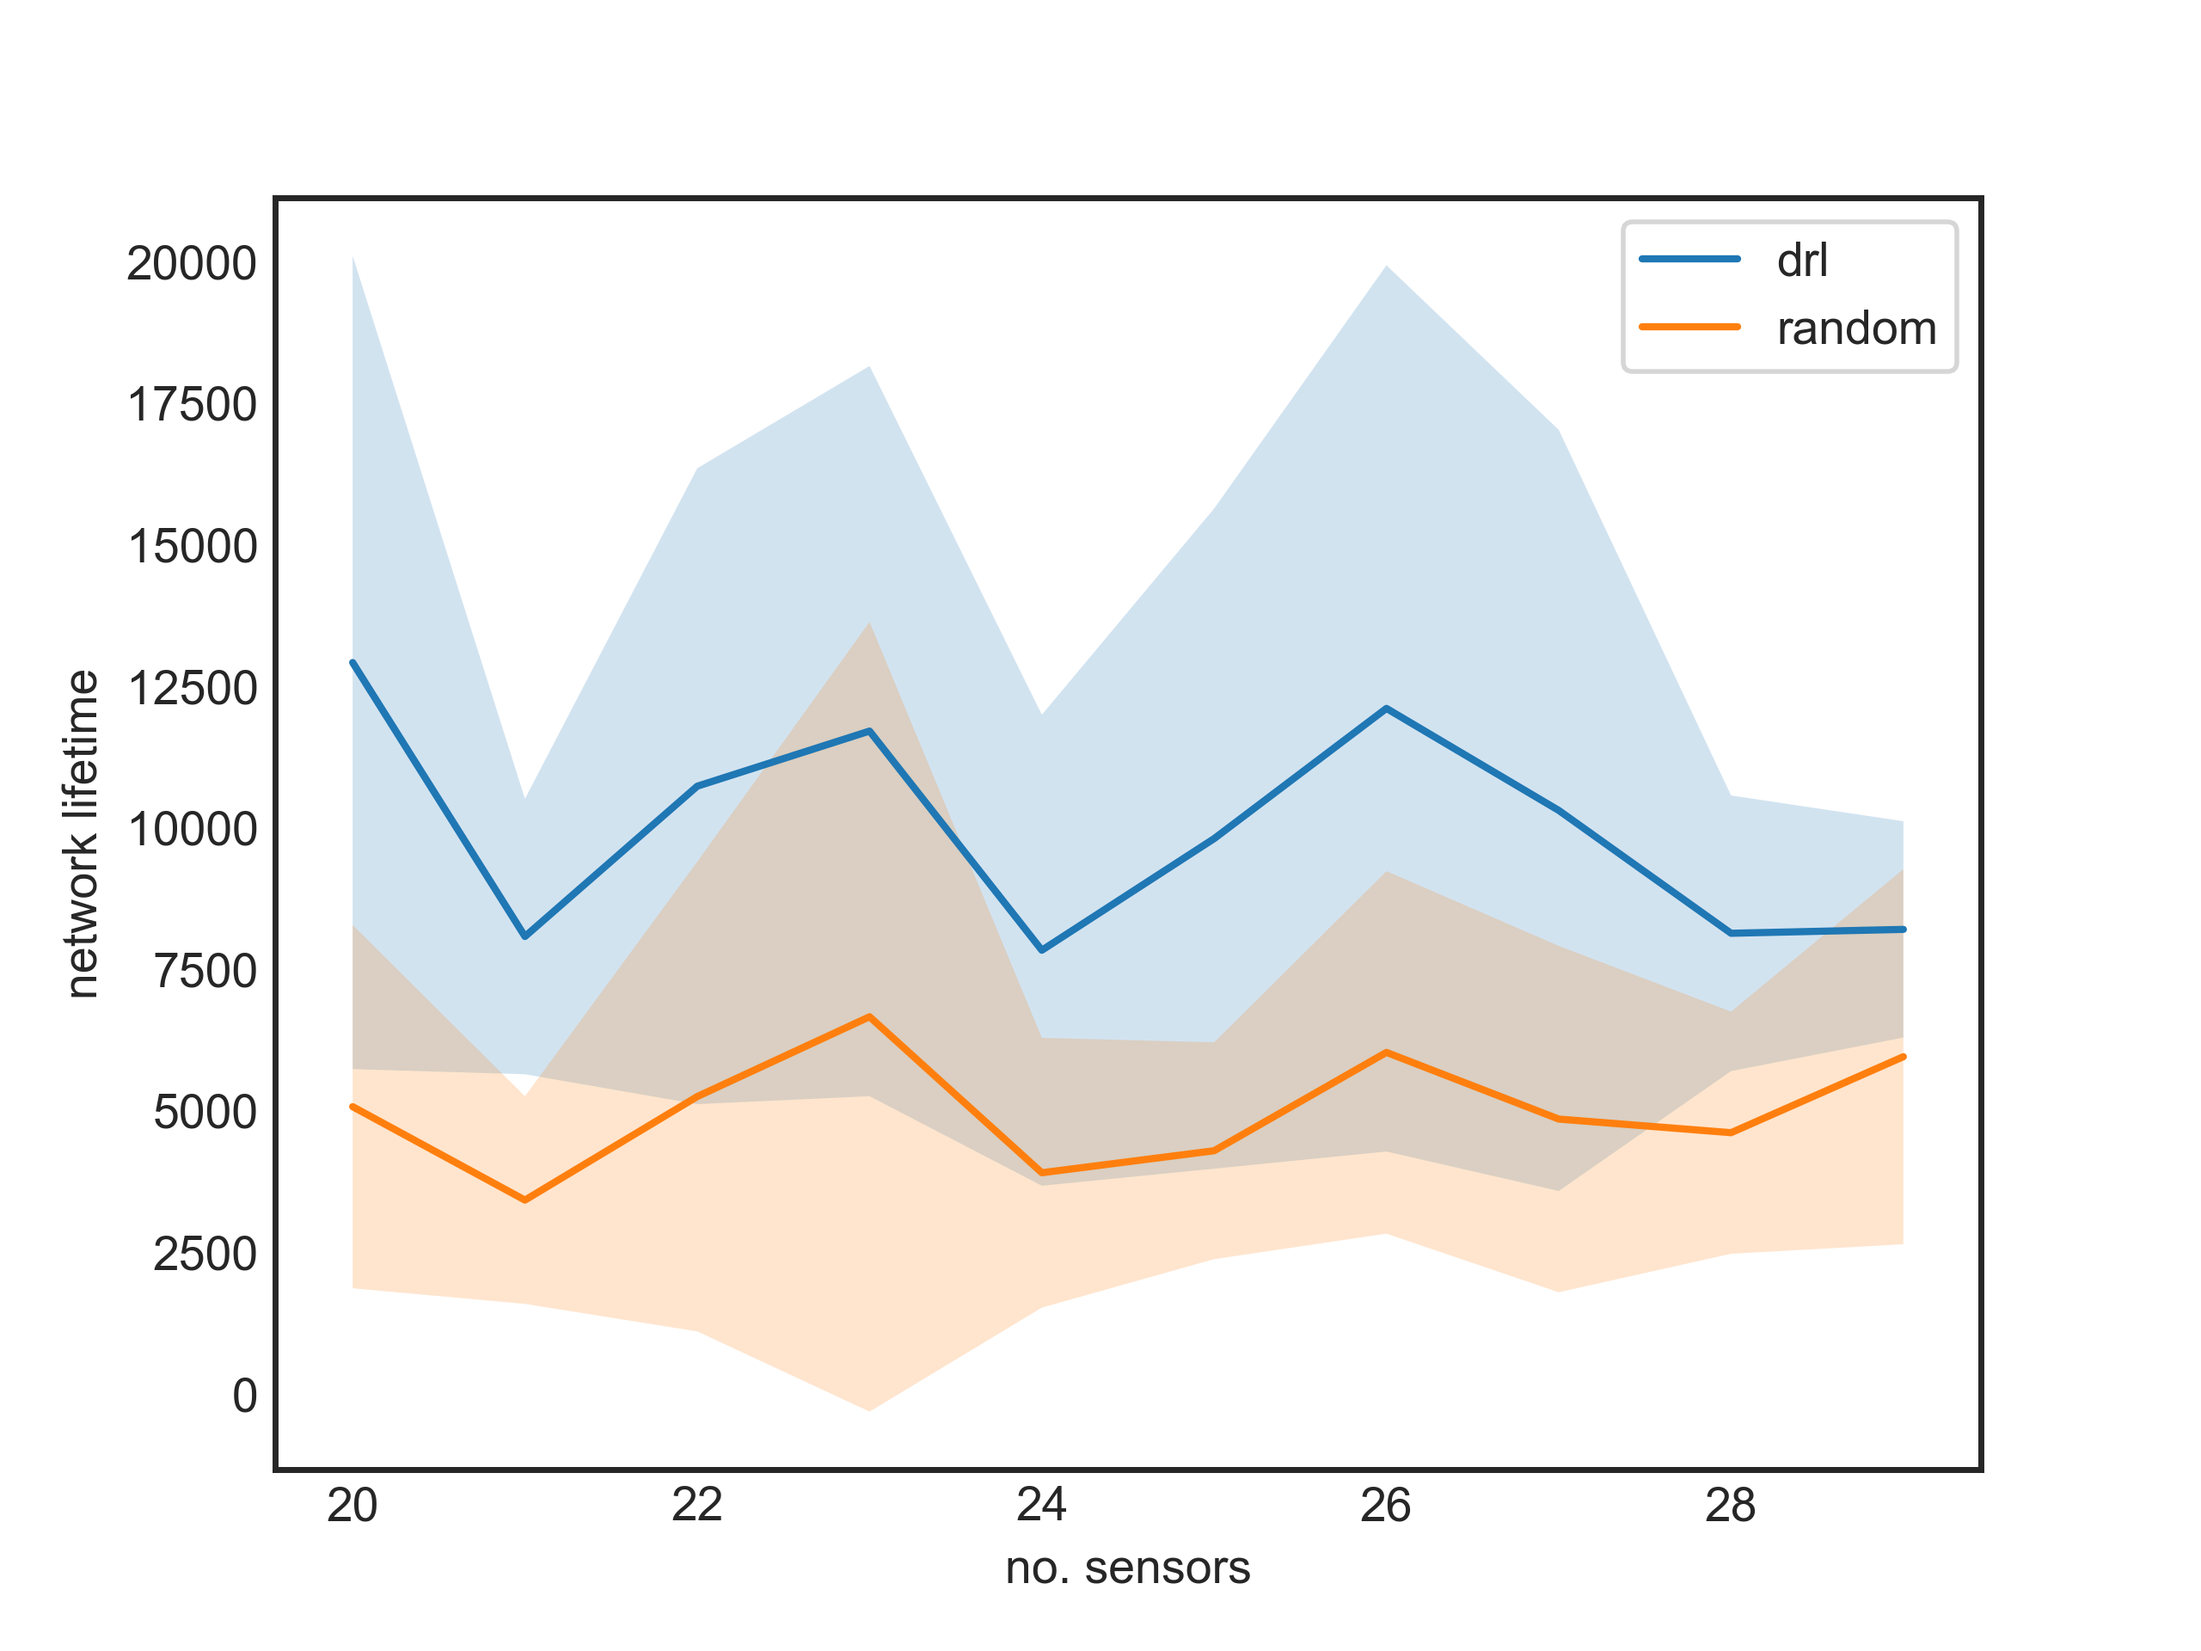
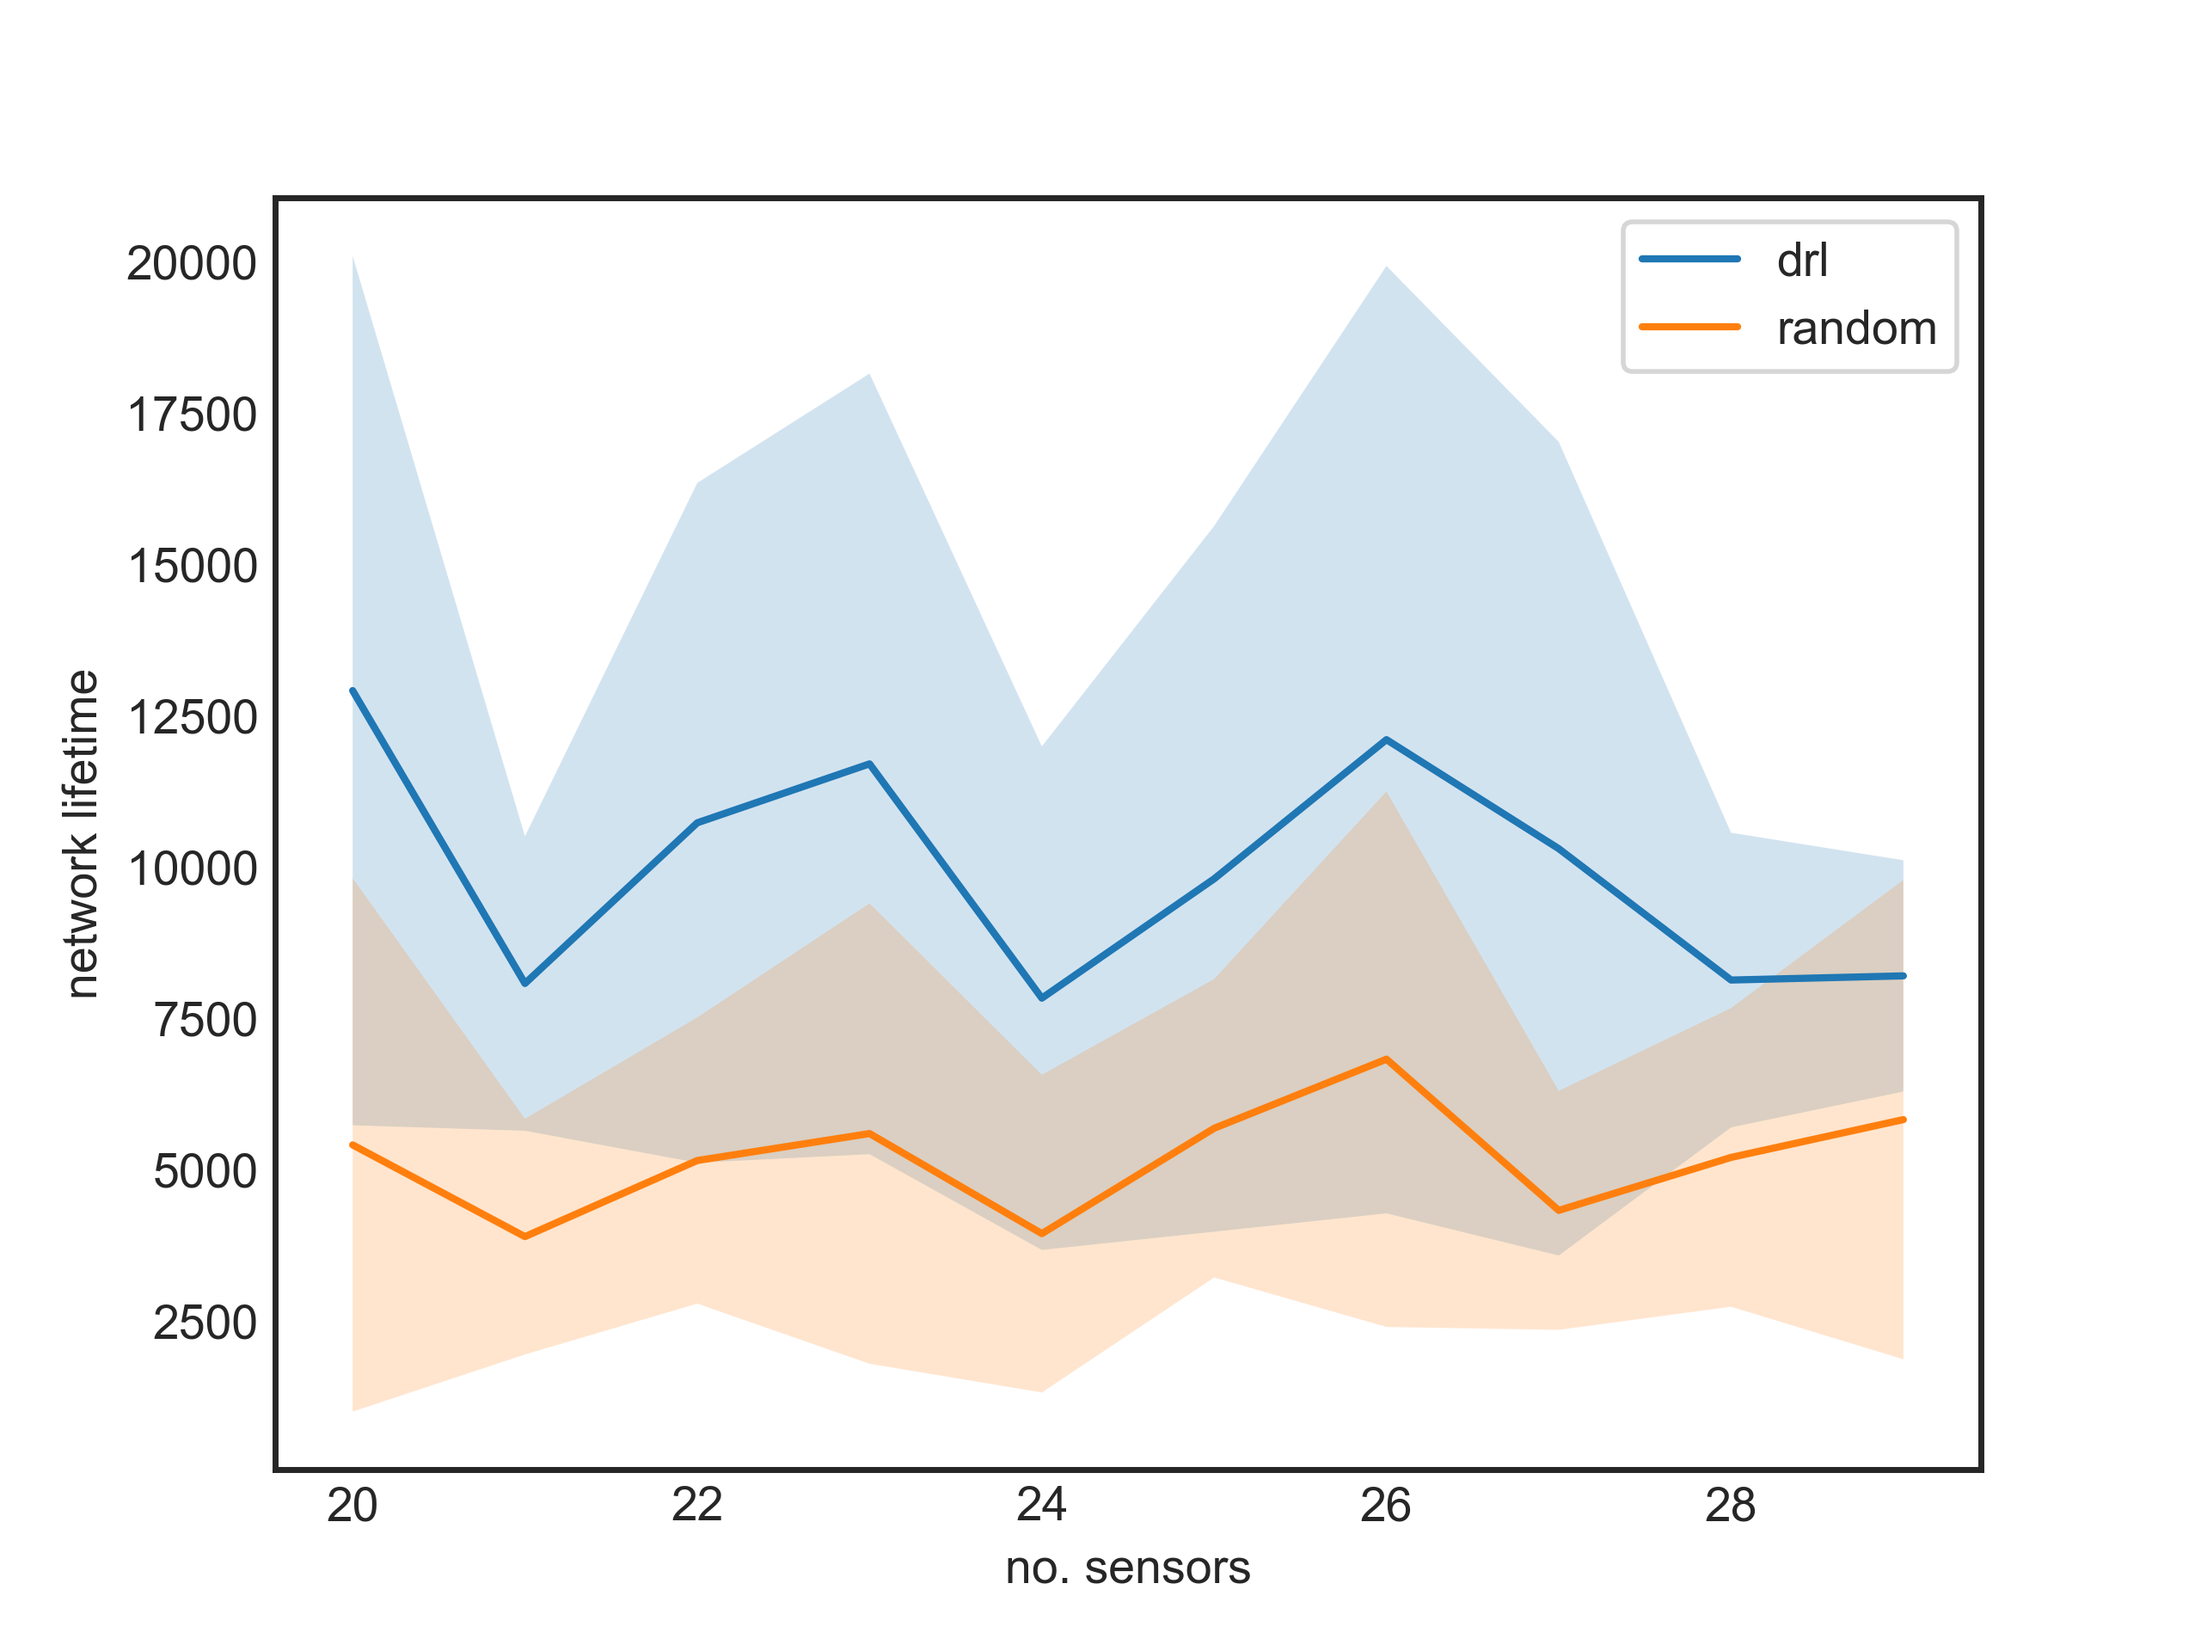
update run parameters

diff --git a/run.py b/run.py
@@ -2,7 +2,6 @@ import sys
 sys.path.append('./drl')
 
 import random_strategy
-import main as drl
 from utils import device, pdump, pload
 from utils import WRSNDataset
 from utils import WrsnParameters as wp, DrlParameters as dp
@@ -18,21 +17,6 @@ import argparse
 import os
 
 
-
-def run_drl(data_loader, name, save_dir):
-    actor = MCActor(dp.MC_INPUT_SIZE,
-                    dp.SN_INPUT_SIZE,
-                    dp.hidden_size,
-                    dp.dropout).to(device)
-
-    save_dir = os.path.join(save_dir, name)
-    checkpoint = ec.checkpoint
-    path = os.path.join(checkpoint, 'actor.pt')
-    actor.load_state_dict(torch.load(path, device))
-
-    ret = drl.validate(data_loader, actor, render=False)
-
-    return ret
 
 def run_random(data_loader, name, save_dir):
     save_dir = os.path.join(save_dir, name)
@@ -71,7 +55,7 @@ def run_ept_1_2(ept, seed=123, save_dir='results', rerun=False):
         used_solvers = ec.ept1.solvers
         res = defaultdict(list)
         for num_sensors in range(min_num_sensors, max_num_sensors):
-            test_data = WRSNDataset(num_sensors, num_targets, dp.test_size, seed)
+            test_data = WRSNDataset(num_sensors, num_targets, ec.ept1.test_size, seed)
             data_loader = DataLoader(test_data, 1, False, num_workers=0)
             for name, solver in solvers.items():
                 if name in used_solvers:
@@ -89,7 +73,7 @@ def run_ept_1_2(ept, seed=123, save_dir='results', rerun=False):
         used_solvers = ec.ept2.solvers
         res = defaultdict(list)
         for prob in np.arange(min_prob, max_prob, step):
-            test_data = WRSNDataset(num_sensors, num_targets, dp.test_size, seed)
+            test_data = WRSNDataset(num_sensors, num_targets, ec.ept2.test_size, seed)
             data_loader = DataLoader(test_data, 1, False, num_workers=0)
             wp.k_bit = ec.ept2.k_bit * prob
             for name, solver in solvers.items():

diff --git a/model001.py b/model001.py
@@ -1,0 +1,23 @@
+import sys
+sys.path.insert(0, './model001')
+
+from utils import device, pdump, pload
+from utils import WRSNDataset
+from utils import WrsnParameters as wp, DrlParameters as dp
+from model import MCActor
+import main as model001
+
+def run_model001(data_loader, name, save_dir):
+    actor = MCActor(dp.MC_INPUT_SIZE,
+                    dp.SN_INPUT_SIZE,
+                    dp.hidden_size,
+                    dp.dropout).to(device)
+
+    save_dir = os.path.join(save_dir, name)
+    checkpoint = ec.checkpoint
+    path = os.path.join(checkpoint, 'actor.pt')
+    actor.load_state_dict(torch.load(path, device))
+
+    ret = drl.validate(data_loader, actor, render=False)
+
+    return ret

diff --git a/ept_config.py b/ept_config.py
@@ -11,6 +11,7 @@ class Ept1(Config):
     # ept 1 settings
     solvers = ['drl', 'random']
     num_targets = 10
+    test_size = 10
     min_num_sensors = 20
     max_num_sensors = 30
 
@@ -20,6 +21,7 @@ class Ept2(Config):
     solvers = ['drl', 'random']
     num_targets = 10
     num_sensors = 20
+    test_size = 10
     k_bit = 20000000
     step = 0.1
     min_prob = 0.1
